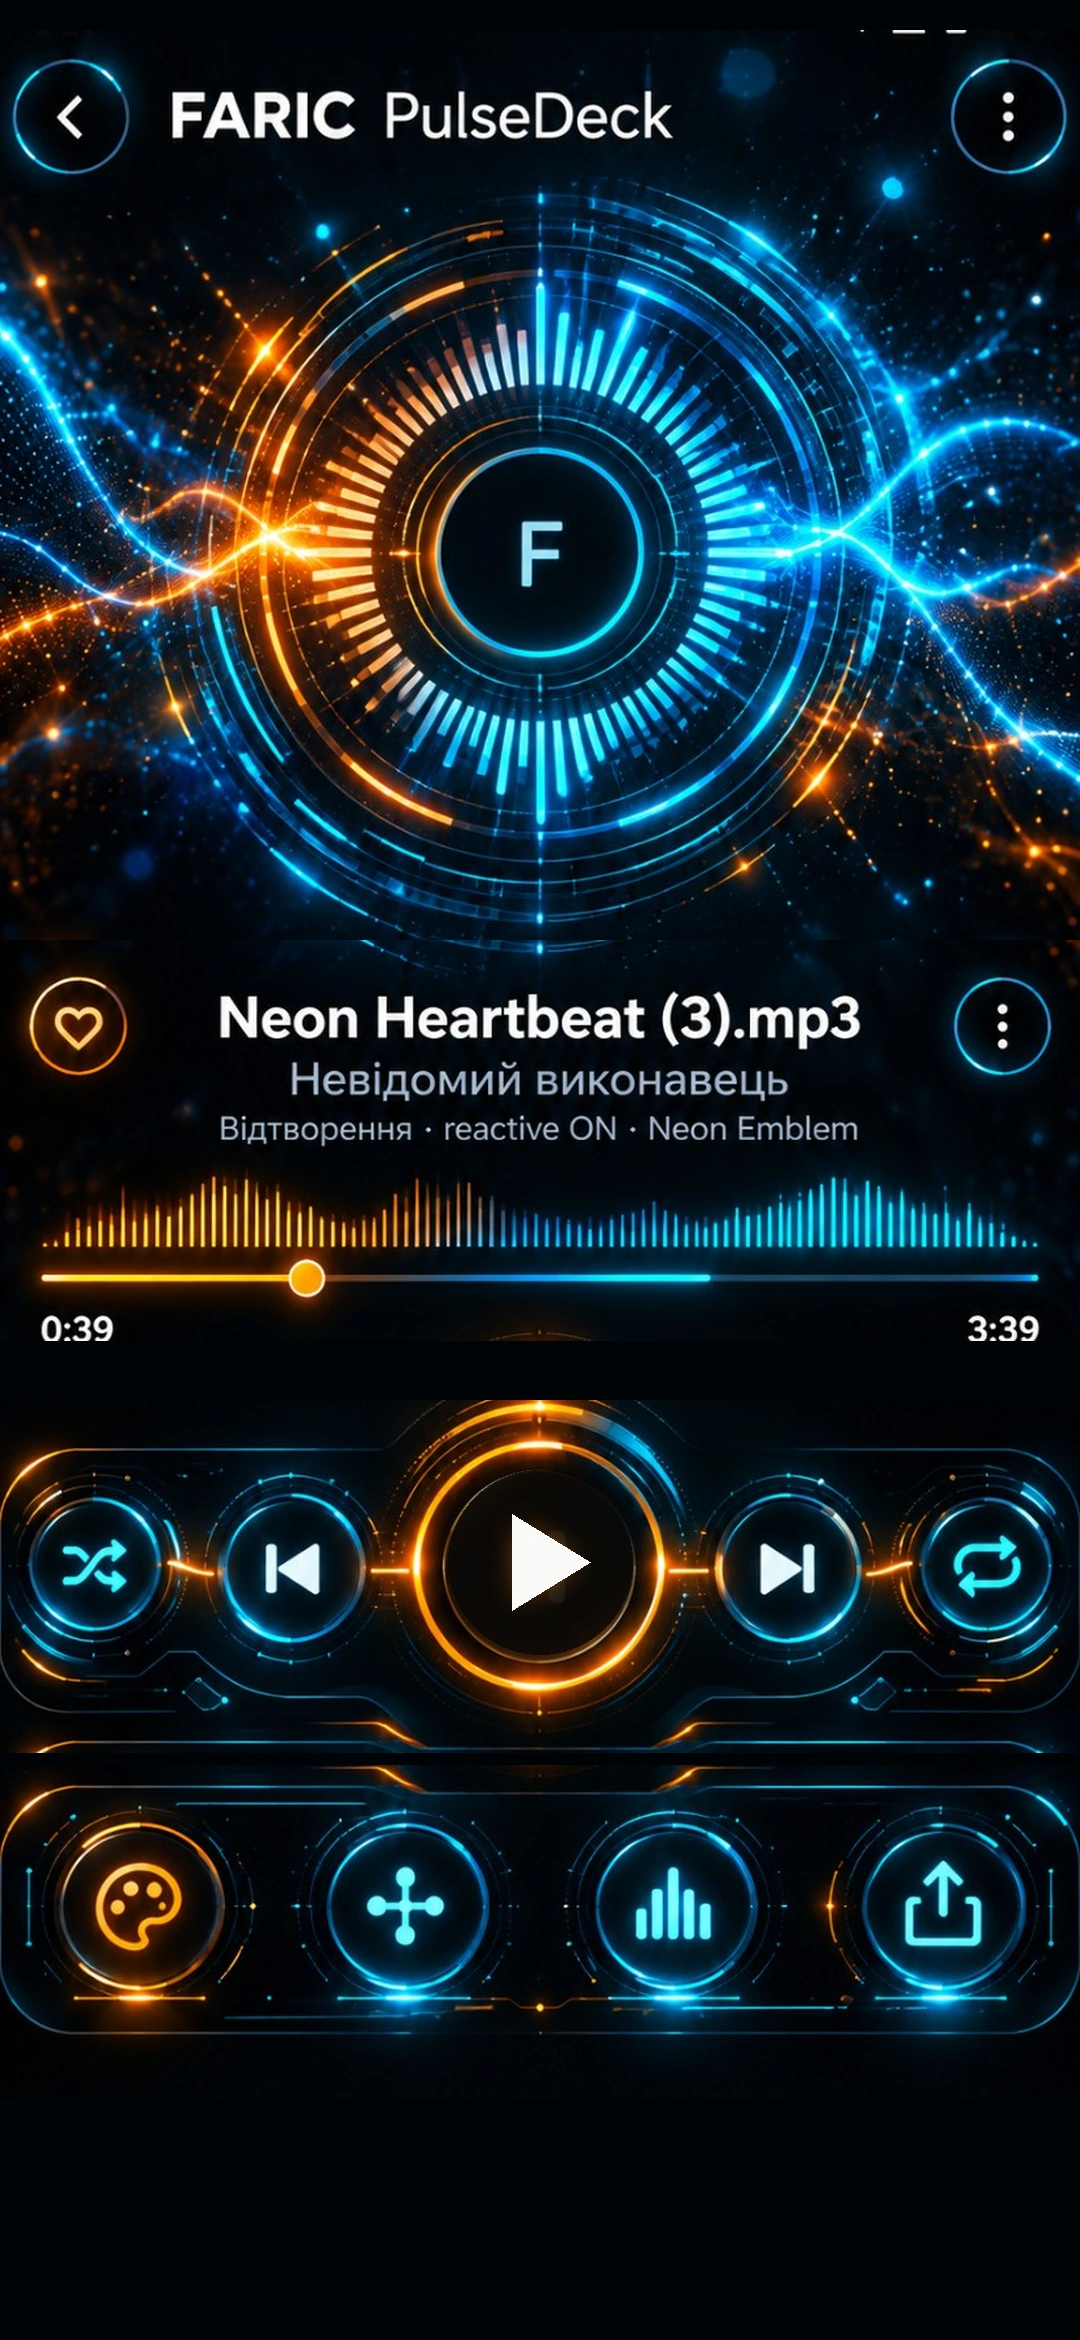
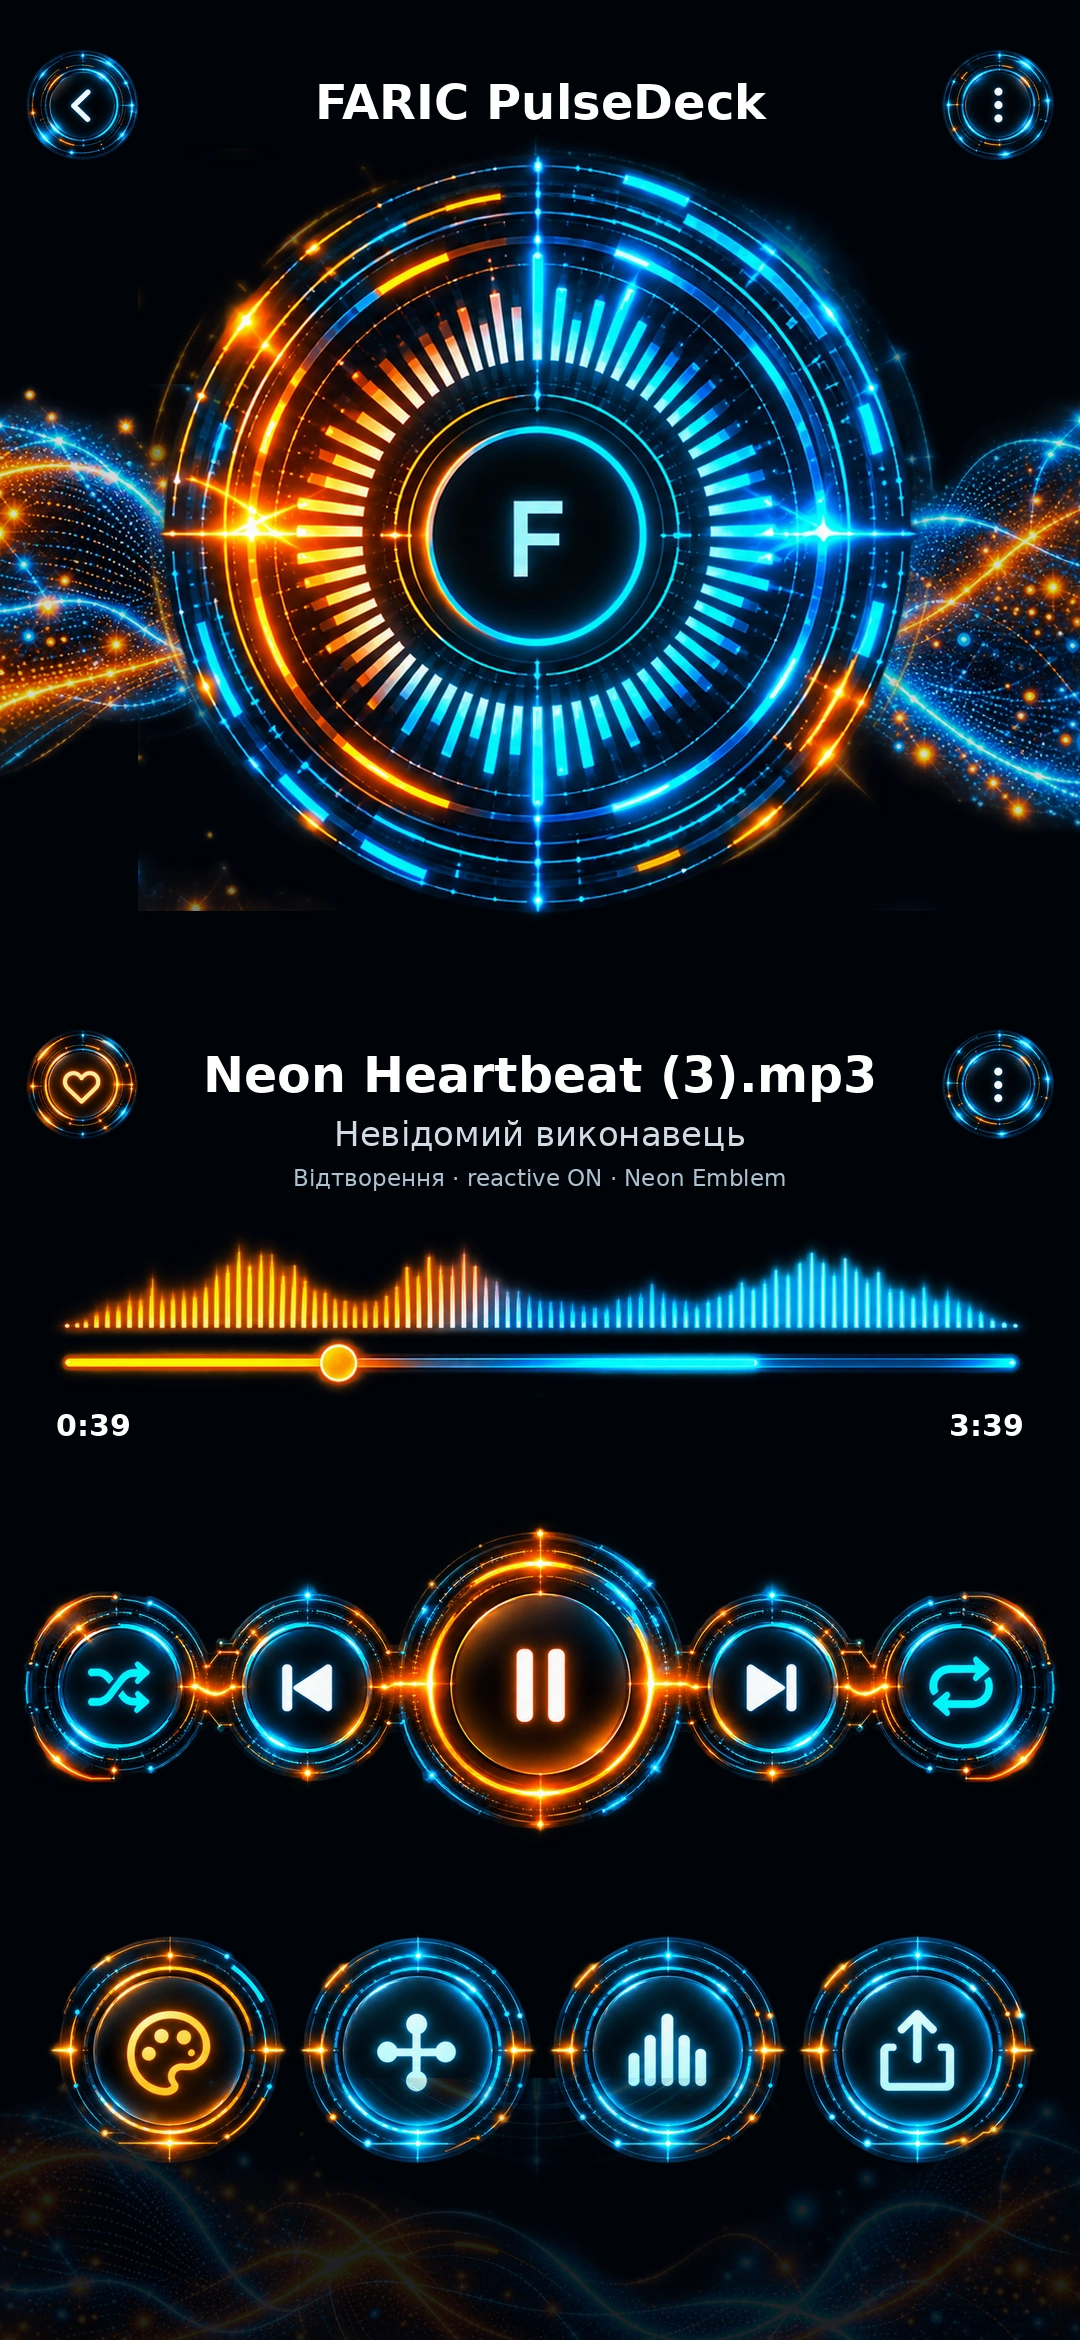
assets: replace PulseDeck master with clean grouped blocks v2

diff --git a/skin/pulsedeck_master/README.md b/skin/pulsedeck_master/README.md
@@ -1,12 +1,11 @@
-# PulseDeck Master Plate v1
+# PulseDeck Clean Blocks v2
 
-Reference-first visual baseline.
+Built from the clean original HUD source sheets.
 
-This pack intentionally uses large precomposed visual plates derived from the approved original artwork.
-It avoids rebuilding glow rings, rails and buttons from many independently scaled PNG fragments.
-
-Phase 1 priorities:
-- visual fidelity first;
-- static artwork is acceptable;
-- invisible Android hit zones keep controls functional;
-- animation/dynamic text/progress can be reintroduced after the visual baseline is accepted.
+Rules:
+- reactor is one clean hero composition;
+- transport is one precomposed group, never rebuilt from separate rings;
+- quick actions are one precomposed group;
+- no independent X/Y stretching;
+- no rail-over-button ring duplication;
+- exact centers are calibrated on-phone after the visual baseline is accepted.
